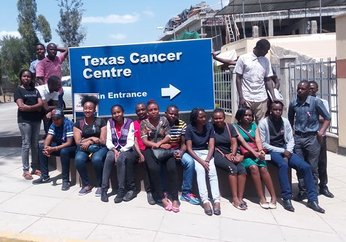
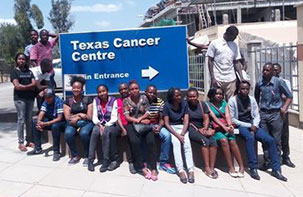
updated the gallery page

diff --git a/assets/css/style.css b/assets/css/style.css
@@ -285,9 +285,8 @@ a:hover, a:focus, a:active {
   box-shadow: none;
 }
 .cause .cause-img {
-  margin-bottom: 15px;
+  margin-bottom: 5px;
   width: 100%;
-  max-height: 180px;
 }
 .cause .cause-title {
   text-align: center;
@@ -299,7 +298,7 @@ a:hover, a:focus, a:active {
   padding: 0 15px;
   font-size: 13px;
   margin-bottom: 15px;
-  min-height: 115px;
+  min-height: 119px;
 }
 .cause:hover {
   background: #f0f0f0;
@@ -654,6 +653,7 @@ form .alert {
   position: relative;
   display: block;
   overflow: hidden;
+  max-height: 190px;
 }
 .lightbox img {
   -moz-transition: all, 0.5s;
@@ -767,6 +767,12 @@ form .alert {
   .reasons-col:hover .on-hover {
     padding: 25px;
   }
+
+  .lightbox{
+    max-height: 160px;
+  }
+
+
 }
 /* Medium devices (desktops, 992px and Donw) */
 @media (max-width: 992px) {
@@ -856,6 +862,10 @@ form .alert {
   .col-form {
     margin-bottom: 25px;
   }
+
+  .lightbox {
+    max-height: none;
+}
 }
 /* Extra Small devices (tablets, 480px and Down) */
 @media (max-width: 480px) {

diff --git a/causes.html b/causes.html
@@ -244,8 +244,10 @@
 		                          <div class="progress-bar" role="progressbar" aria-valuenow="60" aria-valuemin="0" aria-valuemax="100" style="width: 60%;">
 		                            400$ / 700$
 		                          </div>
-		                        </div>
+                                </div>
+                                
 -->
+                               
 		                        <h4 class="cause-title"><a href="#">TEXAS BLOOD DRIVE </a></h4>
 		                        <div class="cause-details">
 		                            We have a long running partnership with Texas Cancer Center where our members mobilize friends to donate blood to help cancer stricken patients who are constantly in need of blood. We also help clean and mantain the center once every month. Please join us to save lives!
